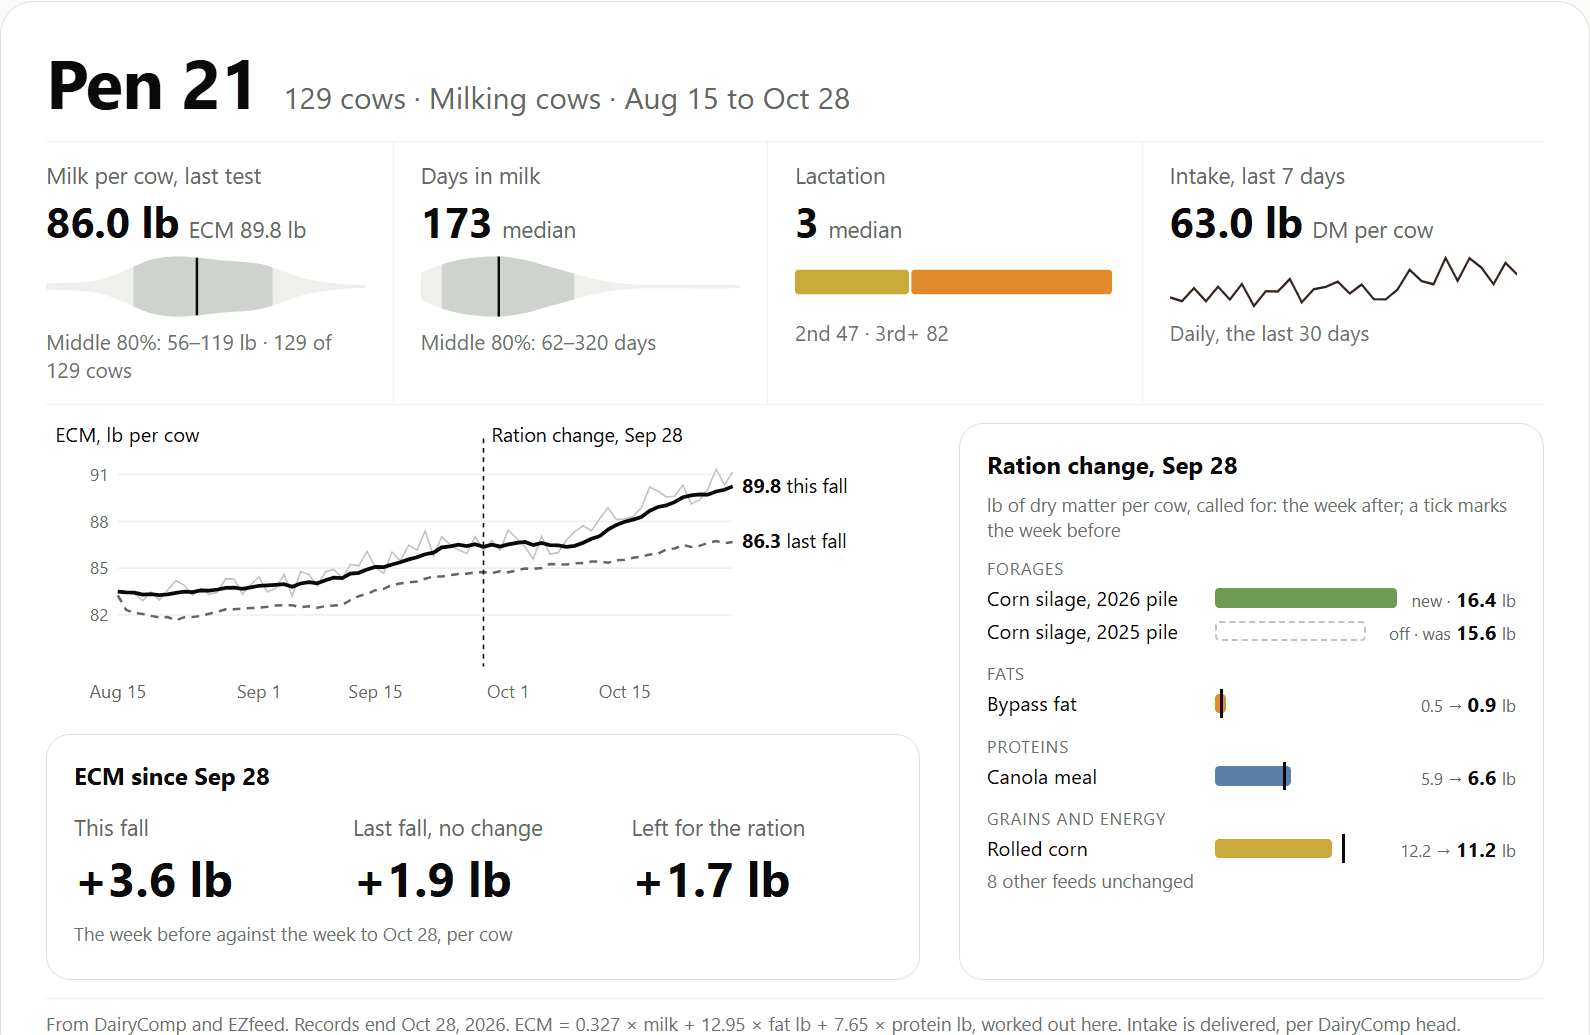
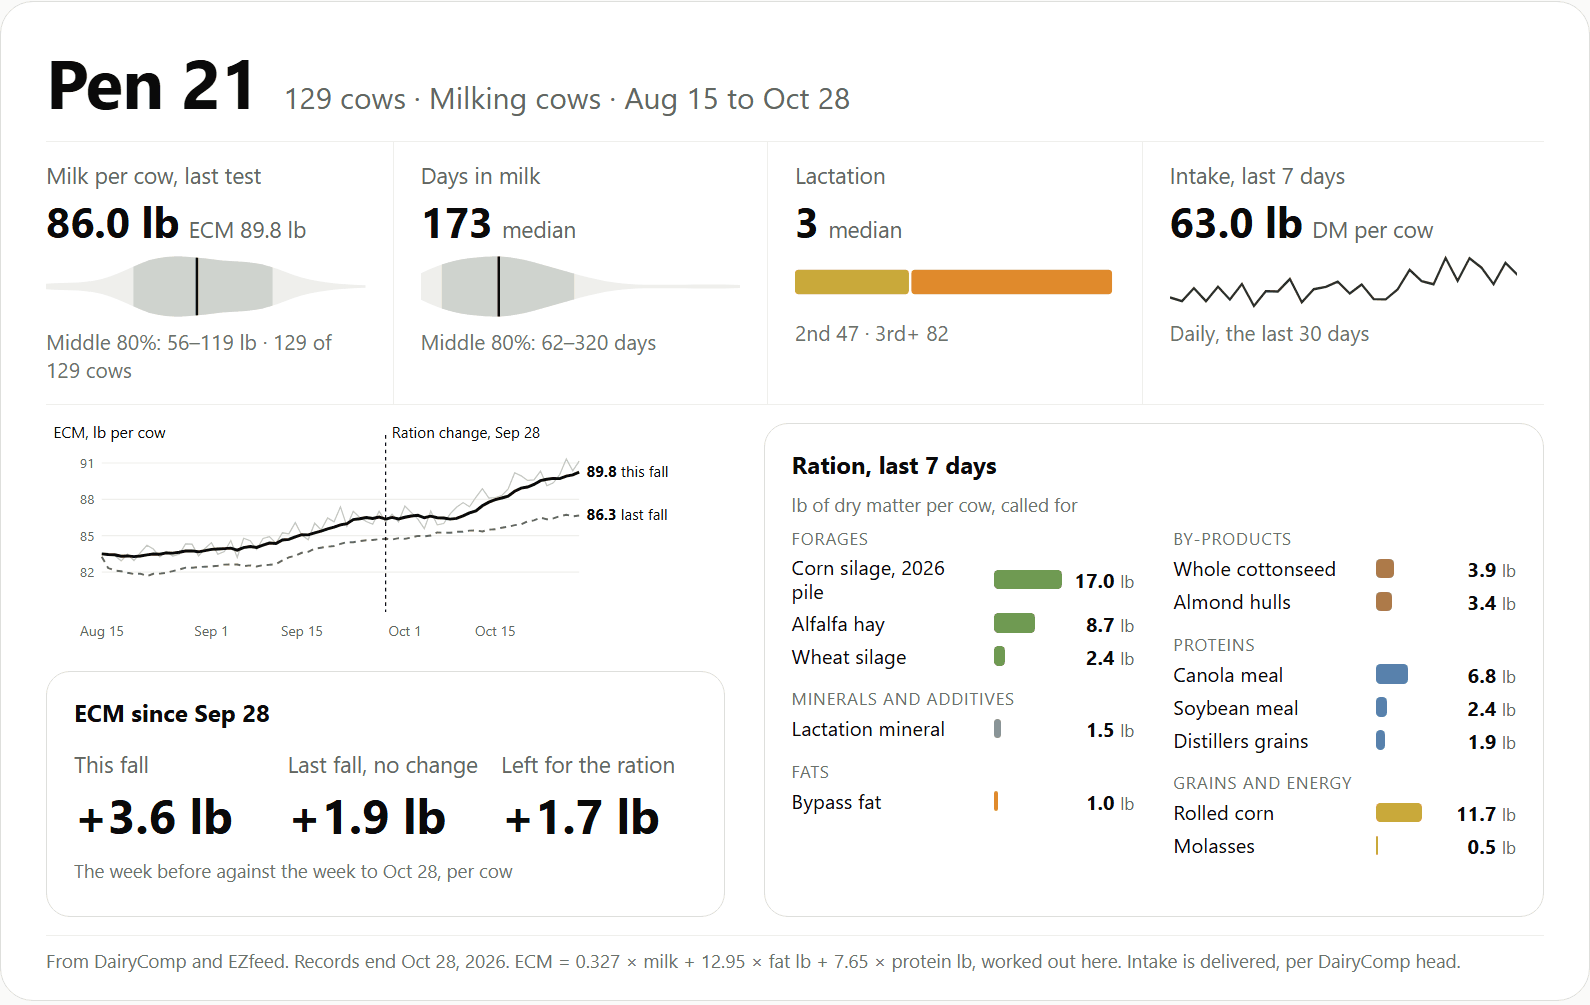
Pen card shows the current ration (last 7 days, every feed); the chart still marks the last change and ECM since it; slide lays the ration in two columns

diff --git a/plugins/dairy-data-tools/skills/dairycomp-exports/scripts/dairytools/cards.py b/plugins/dairy-data-tools/skills/dairycomp-exports/scripts/dairytools/cards.py
@@ -60,6 +60,9 @@ svg text{font-family:var(--sans);fill:var(--text2)}svg .lab{fill:var(--text)}
 .rations{display:grid;grid-template-columns:repeat(auto-fit,minmax(300px,1fr));gap:12px 30px}
 .rations h3{font-size:16px;margin:0 0 2px;font-weight:650}
 body.slide .card,body.slide .page{zoom:1.5;max-width:1060px;margin:14px auto}
+.grp{break-inside:avoid}.slide .body{grid-template-columns:1fr 1.15fr}.slide .rbars{columns:2;column-gap:26px}
+.slide .rbars .grp:first-child .rg{margin-top:0}
+.slide .rbars .rb{grid-template-columns:minmax(0,9.4em) minmax(40px,1fr) auto;gap:8px}
 @media (max-width:1060px){.body{grid-template-columns:1fr}}
 @media (max-width:820px){.tiles{grid-template-columns:repeat(2,1fr)}.head h1{font-size:34px}
 .card{margin:8px;padding:16px}.figs .v{font-size:24px}}
@@ -250,7 +253,7 @@ def ration_bars(after: dict, before: dict | None = None, only_moved: bool = Fals
         ks = sorted(groups.get((words, colour), []), key=lambda k: -max(after.get(k, 0.0), before.get(k, 0.0)))
         if not ks:
             continue
-        out.append(f"<div class='rg'>{esc(words)}</div>")
+        out.append(f"<div class='grp'><div class='rg'>{esc(words)}</div>")
         for k in ks:
             a, b = before.get(k, 0.0), after.get(k, 0.0)
             changed = bool(before) and k in moved
@@ -265,6 +268,7 @@ def ration_bars(after: dict, before: dict | None = None, only_moved: bool = Fals
                          f"<small>{a:.1f} →</small> {b:.1f}" if changed else f"{b:.1f}")
             out.append(f"<div class='rb'><span class='nm' title='{esc(k)}'>{esc(k)}</span><div class='tr'>{bar}</div>"
                        f"<span class='lb'>{label} <small>lb</small></span></div>")
+        out.append("</div>")
     if only_moved and len(feeds) > len(show):
         n = len(feeds) - len(show)
         out.append(f"<div class='sub'>{n} other feed{'s' if n != 1 else ''} unchanged</div>")
@@ -388,18 +392,14 @@ def pen_card_html(herd: Herd, pen, pen_milk: dict | None = None, days: int = 75,
     # A slide draws the chart narrower, so its words come out bigger.
     chart = (time_chart(rows, change, start, end, width=560 if slide else 760) if rows
              else "<p>No daily records for this pen.</p>")
-    # Side: the ration as bars (what changed marked), and the season beside it.
+    # Side: the current ration as bars, and the season beside the last change.
     side = []
     ecm_since = ""
-    if changes:
-        d, _, wa, wb = changes[-1]
-        side.append(f"<h2>Ration change, {_fmt_date(d)}</h2><div class='sub'>lb of dry matter per cow, called for: the "
-                    f"week after; a tick marks the week before</div>{ration_bars(wb, wa, only_moved=slide)}")
-    elif feed:
+    if feed:   # the pen's current ration; the chart marks when it last changed
         recipe = _recipe(herd, feed["ezfeed_pen"], end - timedelta(days=6), end)
         if recipe:
             side.append(f"<h2>Ration, last 7 days</h2><div class='sub'>lb of dry matter per cow, called for</div>"
-                        f"{ration_bars(recipe)}")
+                        f"<div class='rbars'>{ration_bars(recipe)}</div>")
     if pen_milk and change:
         def wk(year_shift, a, b):
             vals = []

diff --git a/plugins/dairy-data-tools/skills/ezfeed-exports/scripts/dairytools/cards.py b/plugins/dairy-data-tools/skills/ezfeed-exports/scripts/dairytools/cards.py
@@ -60,6 +60,9 @@ svg text{font-family:var(--sans);fill:var(--text2)}svg .lab{fill:var(--text)}
 .rations{display:grid;grid-template-columns:repeat(auto-fit,minmax(300px,1fr));gap:12px 30px}
 .rations h3{font-size:16px;margin:0 0 2px;font-weight:650}
 body.slide .card,body.slide .page{zoom:1.5;max-width:1060px;margin:14px auto}
+.grp{break-inside:avoid}.slide .body{grid-template-columns:1fr 1.15fr}.slide .rbars{columns:2;column-gap:26px}
+.slide .rbars .grp:first-child .rg{margin-top:0}
+.slide .rbars .rb{grid-template-columns:minmax(0,9.4em) minmax(40px,1fr) auto;gap:8px}
 @media (max-width:1060px){.body{grid-template-columns:1fr}}
 @media (max-width:820px){.tiles{grid-template-columns:repeat(2,1fr)}.head h1{font-size:34px}
 .card{margin:8px;padding:16px}.figs .v{font-size:24px}}
@@ -250,7 +253,7 @@ def ration_bars(after: dict, before: dict | None = None, only_moved: bool = Fals
         ks = sorted(groups.get((words, colour), []), key=lambda k: -max(after.get(k, 0.0), before.get(k, 0.0)))
         if not ks:
             continue
-        out.append(f"<div class='rg'>{esc(words)}</div>")
+        out.append(f"<div class='grp'><div class='rg'>{esc(words)}</div>")
         for k in ks:
             a, b = before.get(k, 0.0), after.get(k, 0.0)
             changed = bool(before) and k in moved
@@ -265,6 +268,7 @@ def ration_bars(after: dict, before: dict | None = None, only_moved: bool = Fals
                          f"<small>{a:.1f} →</small> {b:.1f}" if changed else f"{b:.1f}")
             out.append(f"<div class='rb'><span class='nm' title='{esc(k)}'>{esc(k)}</span><div class='tr'>{bar}</div>"
                        f"<span class='lb'>{label} <small>lb</small></span></div>")
+        out.append("</div>")
     if only_moved and len(feeds) > len(show):
         n = len(feeds) - len(show)
         out.append(f"<div class='sub'>{n} other feed{'s' if n != 1 else ''} unchanged</div>")
@@ -388,18 +392,14 @@ def pen_card_html(herd: Herd, pen, pen_milk: dict | None = None, days: int = 75,
     # A slide draws the chart narrower, so its words come out bigger.
     chart = (time_chart(rows, change, start, end, width=560 if slide else 760) if rows
              else "<p>No daily records for this pen.</p>")
-    # Side: the ration as bars (what changed marked), and the season beside it.
+    # Side: the current ration as bars, and the season beside the last change.
     side = []
     ecm_since = ""
-    if changes:
-        d, _, wa, wb = changes[-1]
-        side.append(f"<h2>Ration change, {_fmt_date(d)}</h2><div class='sub'>lb of dry matter per cow, called for: the "
-                    f"week after; a tick marks the week before</div>{ration_bars(wb, wa, only_moved=slide)}")
-    elif feed:
+    if feed:   # the pen's current ration; the chart marks when it last changed
         recipe = _recipe(herd, feed["ezfeed_pen"], end - timedelta(days=6), end)
         if recipe:
             side.append(f"<h2>Ration, last 7 days</h2><div class='sub'>lb of dry matter per cow, called for</div>"
-                        f"{ration_bars(recipe)}")
+                        f"<div class='rbars'>{ration_bars(recipe)}</div>")
     if pen_milk and change:
         def wk(year_shift, a, b):
             vals = []

diff --git a/plugins/dairy-data-tools/skills/herd-explorer/scripts/dairytools/cards.py b/plugins/dairy-data-tools/skills/herd-explorer/scripts/dairytools/cards.py
@@ -60,6 +60,9 @@ svg text{font-family:var(--sans);fill:var(--text2)}svg .lab{fill:var(--text)}
 .rations{display:grid;grid-template-columns:repeat(auto-fit,minmax(300px,1fr));gap:12px 30px}
 .rations h3{font-size:16px;margin:0 0 2px;font-weight:650}
 body.slide .card,body.slide .page{zoom:1.5;max-width:1060px;margin:14px auto}
+.grp{break-inside:avoid}.slide .body{grid-template-columns:1fr 1.15fr}.slide .rbars{columns:2;column-gap:26px}
+.slide .rbars .grp:first-child .rg{margin-top:0}
+.slide .rbars .rb{grid-template-columns:minmax(0,9.4em) minmax(40px,1fr) auto;gap:8px}
 @media (max-width:1060px){.body{grid-template-columns:1fr}}
 @media (max-width:820px){.tiles{grid-template-columns:repeat(2,1fr)}.head h1{font-size:34px}
 .card{margin:8px;padding:16px}.figs .v{font-size:24px}}
@@ -250,7 +253,7 @@ def ration_bars(after: dict, before: dict | None = None, only_moved: bool = Fals
         ks = sorted(groups.get((words, colour), []), key=lambda k: -max(after.get(k, 0.0), before.get(k, 0.0)))
         if not ks:
             continue
-        out.append(f"<div class='rg'>{esc(words)}</div>")
+        out.append(f"<div class='grp'><div class='rg'>{esc(words)}</div>")
         for k in ks:
             a, b = before.get(k, 0.0), after.get(k, 0.0)
             changed = bool(before) and k in moved
@@ -265,6 +268,7 @@ def ration_bars(after: dict, before: dict | None = None, only_moved: bool = Fals
                          f"<small>{a:.1f} →</small> {b:.1f}" if changed else f"{b:.1f}")
             out.append(f"<div class='rb'><span class='nm' title='{esc(k)}'>{esc(k)}</span><div class='tr'>{bar}</div>"
                        f"<span class='lb'>{label} <small>lb</small></span></div>")
+        out.append("</div>")
     if only_moved and len(feeds) > len(show):
         n = len(feeds) - len(show)
         out.append(f"<div class='sub'>{n} other feed{'s' if n != 1 else ''} unchanged</div>")
@@ -388,18 +392,14 @@ def pen_card_html(herd: Herd, pen, pen_milk: dict | None = None, days: int = 75,
     # A slide draws the chart narrower, so its words come out bigger.
     chart = (time_chart(rows, change, start, end, width=560 if slide else 760) if rows
              else "<p>No daily records for this pen.</p>")
-    # Side: the ration as bars (what changed marked), and the season beside it.
+    # Side: the current ration as bars, and the season beside the last change.
     side = []
     ecm_since = ""
-    if changes:
-        d, _, wa, wb = changes[-1]
-        side.append(f"<h2>Ration change, {_fmt_date(d)}</h2><div class='sub'>lb of dry matter per cow, called for: the "
-                    f"week after; a tick marks the week before</div>{ration_bars(wb, wa, only_moved=slide)}")
-    elif feed:
+    if feed:   # the pen's current ration; the chart marks when it last changed
         recipe = _recipe(herd, feed["ezfeed_pen"], end - timedelta(days=6), end)
         if recipe:
             side.append(f"<h2>Ration, last 7 days</h2><div class='sub'>lb of dry matter per cow, called for</div>"
-                        f"{ration_bars(recipe)}")
+                        f"<div class='rbars'>{ration_bars(recipe)}</div>")
     if pen_milk and change:
         def wk(year_shift, a, b):
             vals = []

diff --git a/plugins/dairy-data-tools/skills/pen-feed/scripts/dairytools/cards.py b/plugins/dairy-data-tools/skills/pen-feed/scripts/dairytools/cards.py
@@ -60,6 +60,9 @@ svg text{font-family:var(--sans);fill:var(--text2)}svg .lab{fill:var(--text)}
 .rations{display:grid;grid-template-columns:repeat(auto-fit,minmax(300px,1fr));gap:12px 30px}
 .rations h3{font-size:16px;margin:0 0 2px;font-weight:650}
 body.slide .card,body.slide .page{zoom:1.5;max-width:1060px;margin:14px auto}
+.grp{break-inside:avoid}.slide .body{grid-template-columns:1fr 1.15fr}.slide .rbars{columns:2;column-gap:26px}
+.slide .rbars .grp:first-child .rg{margin-top:0}
+.slide .rbars .rb{grid-template-columns:minmax(0,9.4em) minmax(40px,1fr) auto;gap:8px}
 @media (max-width:1060px){.body{grid-template-columns:1fr}}
 @media (max-width:820px){.tiles{grid-template-columns:repeat(2,1fr)}.head h1{font-size:34px}
 .card{margin:8px;padding:16px}.figs .v{font-size:24px}}
@@ -250,7 +253,7 @@ def ration_bars(after: dict, before: dict | None = None, only_moved: bool = Fals
         ks = sorted(groups.get((words, colour), []), key=lambda k: -max(after.get(k, 0.0), before.get(k, 0.0)))
         if not ks:
             continue
-        out.append(f"<div class='rg'>{esc(words)}</div>")
+        out.append(f"<div class='grp'><div class='rg'>{esc(words)}</div>")
         for k in ks:
             a, b = before.get(k, 0.0), after.get(k, 0.0)
             changed = bool(before) and k in moved
@@ -265,6 +268,7 @@ def ration_bars(after: dict, before: dict | None = None, only_moved: bool = Fals
                          f"<small>{a:.1f} →</small> {b:.1f}" if changed else f"{b:.1f}")
             out.append(f"<div class='rb'><span class='nm' title='{esc(k)}'>{esc(k)}</span><div class='tr'>{bar}</div>"
                        f"<span class='lb'>{label} <small>lb</small></span></div>")
+        out.append("</div>")
     if only_moved and len(feeds) > len(show):
         n = len(feeds) - len(show)
         out.append(f"<div class='sub'>{n} other feed{'s' if n != 1 else ''} unchanged</div>")
@@ -388,18 +392,14 @@ def pen_card_html(herd: Herd, pen, pen_milk: dict | None = None, days: int = 75,
     # A slide draws the chart narrower, so its words come out bigger.
     chart = (time_chart(rows, change, start, end, width=560 if slide else 760) if rows
              else "<p>No daily records for this pen.</p>")
-    # Side: the ration as bars (what changed marked), and the season beside it.
+    # Side: the current ration as bars, and the season beside the last change.
     side = []
     ecm_since = ""
-    if changes:
-        d, _, wa, wb = changes[-1]
-        side.append(f"<h2>Ration change, {_fmt_date(d)}</h2><div class='sub'>lb of dry matter per cow, called for: the "
-                    f"week after; a tick marks the week before</div>{ration_bars(wb, wa, only_moved=slide)}")
-    elif feed:
+    if feed:   # the pen's current ration; the chart marks when it last changed
         recipe = _recipe(herd, feed["ezfeed_pen"], end - timedelta(days=6), end)
         if recipe:
             side.append(f"<h2>Ration, last 7 days</h2><div class='sub'>lb of dry matter per cow, called for</div>"
-                        f"{ration_bars(recipe)}")
+                        f"<div class='rbars'>{ration_bars(recipe)}</div>")
     if pen_milk and change:
         def wk(year_shift, a, b):
             vals = []

diff --git a/plugins/dairy-data-tools/skills/weekly-review/scripts/dairytools/cards.py b/plugins/dairy-data-tools/skills/weekly-review/scripts/dairytools/cards.py
@@ -60,6 +60,9 @@ svg text{font-family:var(--sans);fill:var(--text2)}svg .lab{fill:var(--text)}
 .rations{display:grid;grid-template-columns:repeat(auto-fit,minmax(300px,1fr));gap:12px 30px}
 .rations h3{font-size:16px;margin:0 0 2px;font-weight:650}
 body.slide .card,body.slide .page{zoom:1.5;max-width:1060px;margin:14px auto}
+.grp{break-inside:avoid}.slide .body{grid-template-columns:1fr 1.15fr}.slide .rbars{columns:2;column-gap:26px}
+.slide .rbars .grp:first-child .rg{margin-top:0}
+.slide .rbars .rb{grid-template-columns:minmax(0,9.4em) minmax(40px,1fr) auto;gap:8px}
 @media (max-width:1060px){.body{grid-template-columns:1fr}}
 @media (max-width:820px){.tiles{grid-template-columns:repeat(2,1fr)}.head h1{font-size:34px}
 .card{margin:8px;padding:16px}.figs .v{font-size:24px}}
@@ -250,7 +253,7 @@ def ration_bars(after: dict, before: dict | None = None, only_moved: bool = Fals
         ks = sorted(groups.get((words, colour), []), key=lambda k: -max(after.get(k, 0.0), before.get(k, 0.0)))
         if not ks:
             continue
-        out.append(f"<div class='rg'>{esc(words)}</div>")
+        out.append(f"<div class='grp'><div class='rg'>{esc(words)}</div>")
         for k in ks:
             a, b = before.get(k, 0.0), after.get(k, 0.0)
             changed = bool(before) and k in moved
@@ -265,6 +268,7 @@ def ration_bars(after: dict, before: dict | None = None, only_moved: bool = Fals
                          f"<small>{a:.1f} →</small> {b:.1f}" if changed else f"{b:.1f}")
             out.append(f"<div class='rb'><span class='nm' title='{esc(k)}'>{esc(k)}</span><div class='tr'>{bar}</div>"
                        f"<span class='lb'>{label} <small>lb</small></span></div>")
+        out.append("</div>")
     if only_moved and len(feeds) > len(show):
         n = len(feeds) - len(show)
         out.append(f"<div class='sub'>{n} other feed{'s' if n != 1 else ''} unchanged</div>")
@@ -388,18 +392,14 @@ def pen_card_html(herd: Herd, pen, pen_milk: dict | None = None, days: int = 75,
     # A slide draws the chart narrower, so its words come out bigger.
     chart = (time_chart(rows, change, start, end, width=560 if slide else 760) if rows
              else "<p>No daily records for this pen.</p>")
-    # Side: the ration as bars (what changed marked), and the season beside it.
+    # Side: the current ration as bars, and the season beside the last change.
     side = []
     ecm_since = ""
-    if changes:
-        d, _, wa, wb = changes[-1]
-        side.append(f"<h2>Ration change, {_fmt_date(d)}</h2><div class='sub'>lb of dry matter per cow, called for: the "
-                    f"week after; a tick marks the week before</div>{ration_bars(wb, wa, only_moved=slide)}")
-    elif feed:
+    if feed:   # the pen's current ration; the chart marks when it last changed
         recipe = _recipe(herd, feed["ezfeed_pen"], end - timedelta(days=6), end)
         if recipe:
             side.append(f"<h2>Ration, last 7 days</h2><div class='sub'>lb of dry matter per cow, called for</div>"
-                        f"{ration_bars(recipe)}")
+                        f"<div class='rbars'>{ration_bars(recipe)}</div>")
     if pen_milk and change:
         def wk(year_shift, a, b):
             vals = []

diff --git a/tools/dairytools/cards.py b/tools/dairytools/cards.py
@@ -60,6 +60,9 @@ svg text{font-family:var(--sans);fill:var(--text2)}svg .lab{fill:var(--text)}
 .rations{display:grid;grid-template-columns:repeat(auto-fit,minmax(300px,1fr));gap:12px 30px}
 .rations h3{font-size:16px;margin:0 0 2px;font-weight:650}
 body.slide .card,body.slide .page{zoom:1.5;max-width:1060px;margin:14px auto}
+.grp{break-inside:avoid}.slide .body{grid-template-columns:1fr 1.15fr}.slide .rbars{columns:2;column-gap:26px}
+.slide .rbars .grp:first-child .rg{margin-top:0}
+.slide .rbars .rb{grid-template-columns:minmax(0,9.4em) minmax(40px,1fr) auto;gap:8px}
 @media (max-width:1060px){.body{grid-template-columns:1fr}}
 @media (max-width:820px){.tiles{grid-template-columns:repeat(2,1fr)}.head h1{font-size:34px}
 .card{margin:8px;padding:16px}.figs .v{font-size:24px}}
@@ -250,7 +253,7 @@ def ration_bars(after: dict, before: dict | None = None, only_moved: bool = Fals
         ks = sorted(groups.get((words, colour), []), key=lambda k: -max(after.get(k, 0.0), before.get(k, 0.0)))
         if not ks:
             continue
-        out.append(f"<div class='rg'>{esc(words)}</div>")
+        out.append(f"<div class='grp'><div class='rg'>{esc(words)}</div>")
         for k in ks:
             a, b = before.get(k, 0.0), after.get(k, 0.0)
             changed = bool(before) and k in moved
@@ -265,6 +268,7 @@ def ration_bars(after: dict, before: dict | None = None, only_moved: bool = Fals
                          f"<small>{a:.1f} →</small> {b:.1f}" if changed else f"{b:.1f}")
             out.append(f"<div class='rb'><span class='nm' title='{esc(k)}'>{esc(k)}</span><div class='tr'>{bar}</div>"
                        f"<span class='lb'>{label} <small>lb</small></span></div>")
+        out.append("</div>")
     if only_moved and len(feeds) > len(show):
         n = len(feeds) - len(show)
         out.append(f"<div class='sub'>{n} other feed{'s' if n != 1 else ''} unchanged</div>")
@@ -388,18 +392,14 @@ def pen_card_html(herd: Herd, pen, pen_milk: dict | None = None, days: int = 75,
     # A slide draws the chart narrower, so its words come out bigger.
     chart = (time_chart(rows, change, start, end, width=560 if slide else 760) if rows
              else "<p>No daily records for this pen.</p>")
-    # Side: the ration as bars (what changed marked), and the season beside it.
+    # Side: the current ration as bars, and the season beside the last change.
     side = []
     ecm_since = ""
-    if changes:
-        d, _, wa, wb = changes[-1]
-        side.append(f"<h2>Ration change, {_fmt_date(d)}</h2><div class='sub'>lb of dry matter per cow, called for: the "
-                    f"week after; a tick marks the week before</div>{ration_bars(wb, wa, only_moved=slide)}")
-    elif feed:
+    if feed:   # the pen's current ration; the chart marks when it last changed
         recipe = _recipe(herd, feed["ezfeed_pen"], end - timedelta(days=6), end)
         if recipe:
             side.append(f"<h2>Ration, last 7 days</h2><div class='sub'>lb of dry matter per cow, called for</div>"
-                        f"{ration_bars(recipe)}")
+                        f"<div class='rbars'>{ration_bars(recipe)}</div>")
     if pen_milk and change:
         def wk(year_shift, a, b):
             vals = []
